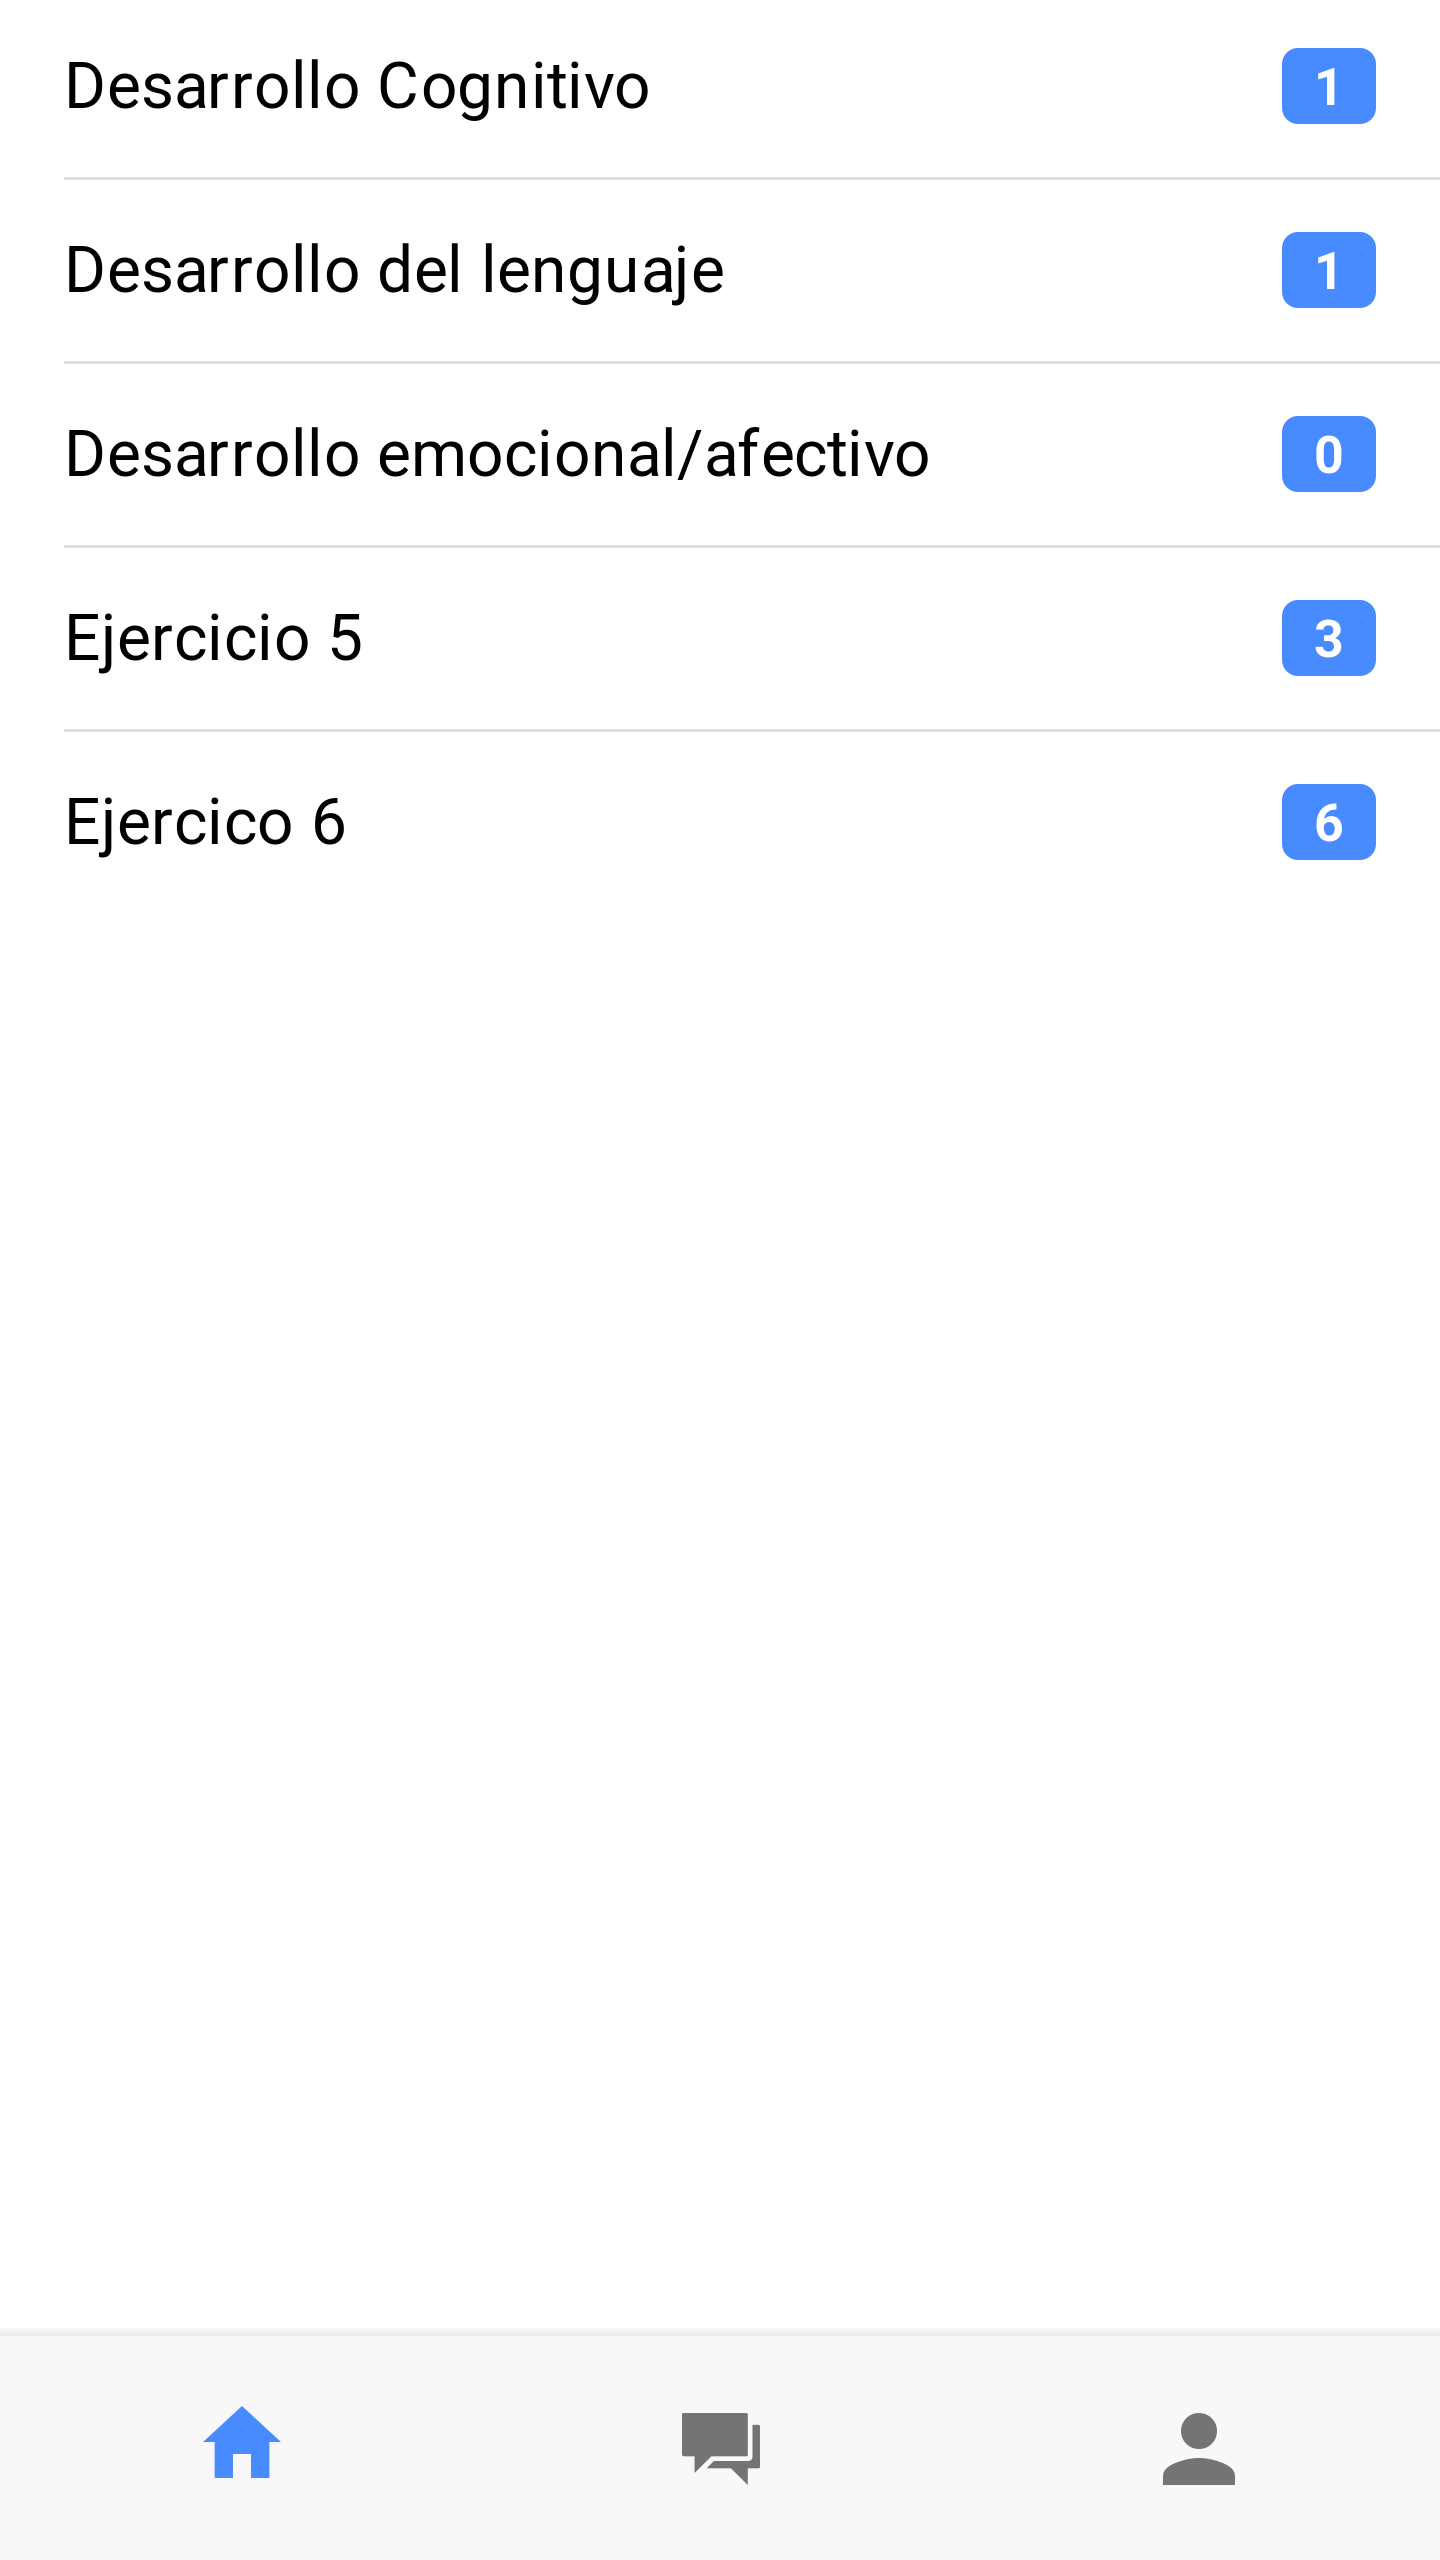
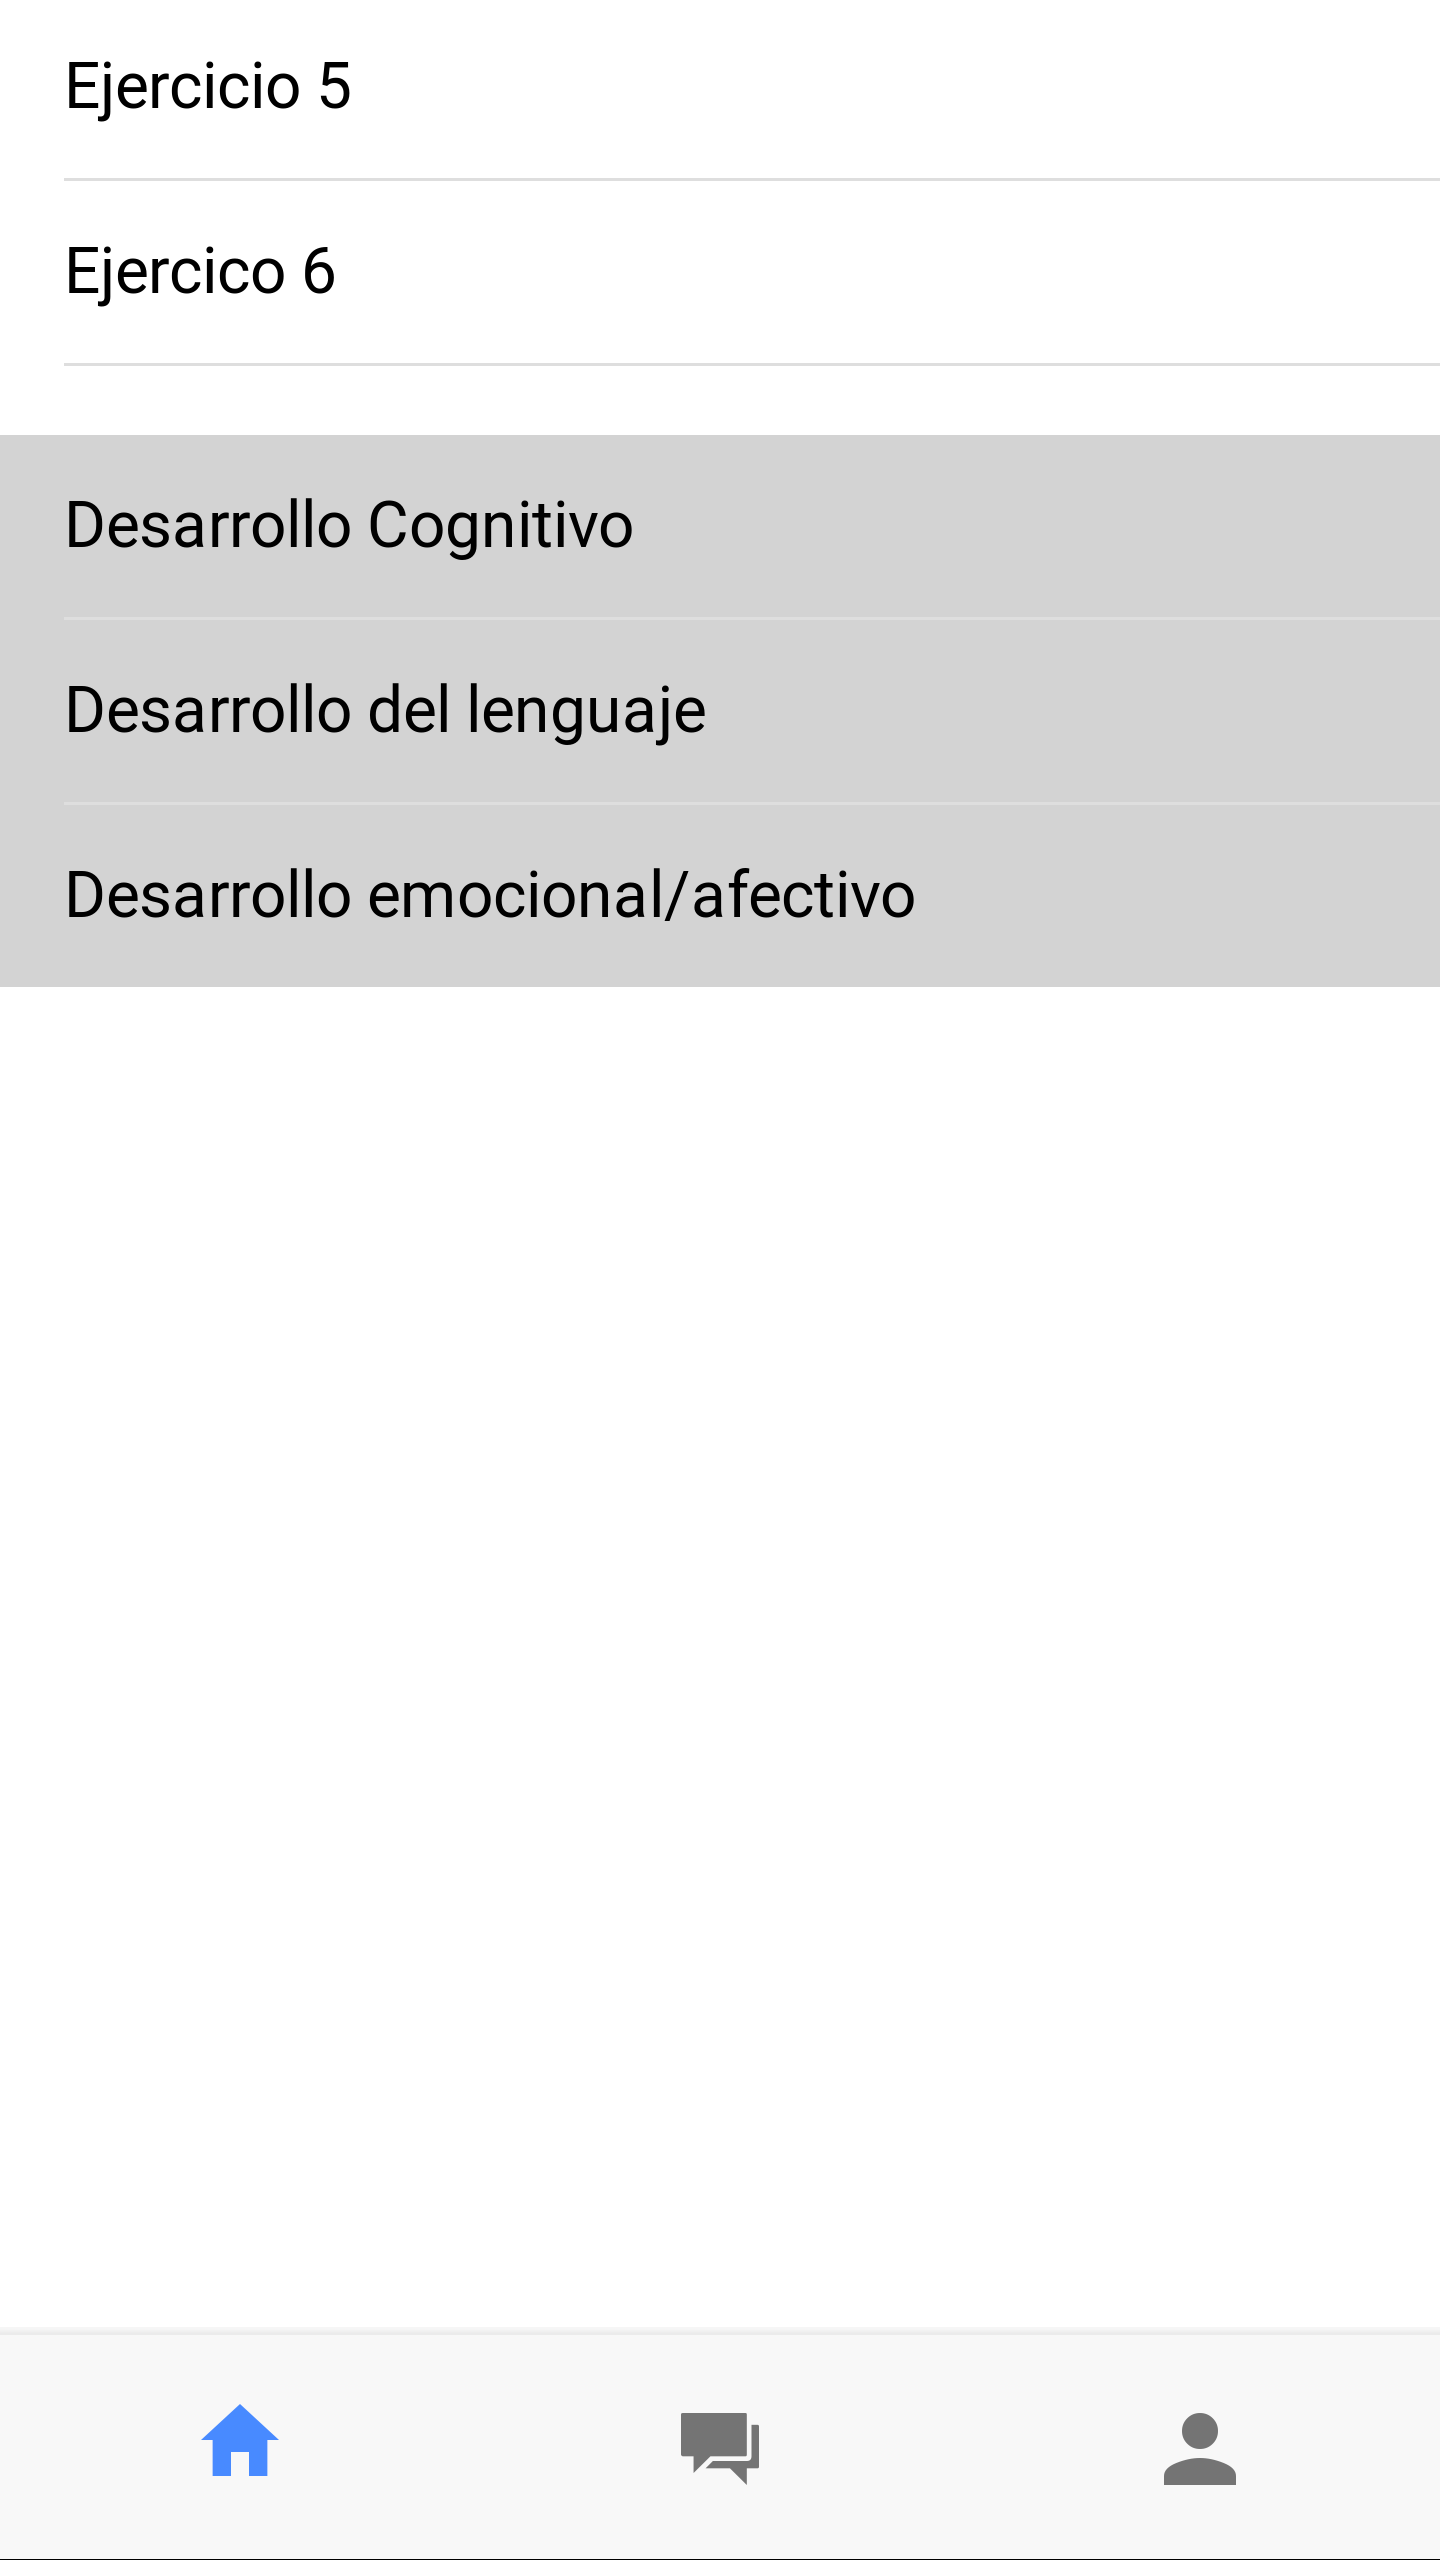
Update screenshots database and user manual

diff --git a/user_manual.tex b/user_manual.tex
@@ -50,6 +50,29 @@ representativos de las mismas. Como son: página principal (\textit{home}),
 chats y mi perfil, respectivamente. En el caso de los doctores, estos tienen
 una pestaña adicional con el icono de una lupa donde podrán buscar entre los
 pacientes registrados en la aplicación.
+
+Además en esta pantalla el usuario pacietne podrá ver los ejercicios que
+tiene asignados. Estos, estarán ordenados según estén completados o no. Los
+ejercicios que ya se han marcado como completados estarán al final de la lista
+en un color gris. Si el usuario pulsa sobre cualquiera de los ejercicios podrá
+ver el material disponible para dicho ejercicio.
+\clearpage
+
+\subsection{Vista ejercicios, paciente}
+\begin{figure}[!h]
+    \centering
+    \includegraphics[width=0.5\textwidth]{images/screenshots/Paciente-vista-ejercicio-con-observaciones.png}
+    \caption{Vista ejercicio con observaciones, paciente}
+    \label{ejercicio-con-observaciones}
+\end{figure}
+
+Los pacientes al entrar a ver uno de los ejercicios que tiene asignados verá
+la pantalla que se muestra en la figura \ref{ejercicio-con-observaciones}. En
+esta podrá ver las especificaciones del ejercicio tales como la descripción,
+las observaciones que el doctor puede haberle dejado indicadas y el material
+visual que se encuentre disponible. Como pueden ser imágenes o vídeos. Además de
+ello encontrará al final de esta un botón con el que podrá indicar si el
+ejercicio ha sido completado.
 \clearpage
 
 \subsection{Perfil de usuario}
@@ -66,20 +89,18 @@ además al final incluye un botón con el que pueden cerrar la sesión, si así
 lo quisieran.
 \clearpage
 
-\subsection{Vista ejercicios, paciente}
+\subsection{Pantalla principal, doctor}
 \begin{figure}[!h]
     \centering
-    \includegraphics[width=0.5\textwidth]{images/screenshots/Paciente-vista-ejercicio-con-observaciones.png}
-    \caption{Vista ejercicio con observaciones, paciente}
-    \label{ejercicio-con-observaciones}
+    \includegraphics[width=0.5\textwidth]{images/screenshots/doctor-home.png}
+    \caption{Pantalla principal, doctor}
+    \label{doctor-home}
 \end{figure}
 
-Los pacientes al entrar a ver uno de los ejercicios que tiene asignados verá
-la pantalla que se muestra en la figura \ref{ejercicio-con-observaciones}. En
-esta podrá ver las especificaciones del ejercicio tales como la descripción y
-las observaciones que el doctor puede haberle dejado indicadas. Además de
-ello encontrará al final de esta un botón con el que podrá indicar si el
-ejercicio ha sido completado.
+El doctor, cuando inicia la aplicación verá los pacientes que tiene asignados.
+Estos tendrán una marca a la derecha de su nombre si han completado ejercicios
+desde la última vez que el doctor ha revisado su historial. De esta forma podrá
+saber si hay novedades entre sus pacientes, como se puede ver en la figura \ref{doctor-home}.
 \clearpage
 
 \subsection{Vista ejercicios, doctor}
@@ -97,6 +118,48 @@ observaciones que quiera añadir. Para completar la asignación tendrá que
 pulsar en el botón situado al final de la pantalla.
 \clearpage
 
+\subsection{Vista perfil paciente}
+\begin{figure}[!h]
+    \centering
+    \includegraphics[width=0.5\textwidth]{images/screenshots/doctor-patient-profile.png}
+    \caption{Vista perfil paciente}
+    \label{doctor-patient-profile}
+\end{figure}
+
+Si el doctor entra en el perfil de un paciente podrá pulsar sobre el botón "+"
+situado en la parte inferior derecha en todo momento. Al pulsar sobre ella verá
+las opciones que se muestran en la figura \ref{doctor-patient-profile}. Entre las
+opciones se encuentran: iniciar un chat, asignar ejercicios y ver el historial.
+\clearpage
+
+\subsection{Ver historial del paciente}
+\begin{figure}[!h]
+    \centering
+    \includegraphics[width=0.5\textwidth]{images/screenshots/doctor-view-history.png}
+    \caption{Historial del paciente}
+    \label{doctor-view-history}
+\end{figure}
+
+En la figura \ref{vista-chats-abiertos} se puede ver el historial de ejercicios de un
+paciente con la fecha y hora en la que se ha completado cada ejercicio.
+\clearpage
+
+\subsection{Asignar ejercicios}
+\begin{figure}[!h]
+    \centering
+    \includegraphics[width=0.5\textwidth]{images/screenshots/doctor-assign-exercise.png}
+    \caption{Asignar ejercicios}
+    \label{doctor-assign-exercise}
+\end{figure}
+
+En la vista que se muestra en la figura \ref{vista-chats-abiertos} el doctor podrá
+ver de un vistazo los ejecicios que tiene el paciente asignados o no. Si quiere
+asignar un ejercicio sin observaciones podrá pulsar sobre el \textit{checkbox}, de
+igual forma para desasignarlo. Si en lugar de ello pulsa sobre el ejercicio verá todo
+el material disponible del ejercicio y un campo observaciones que podrá completar antes
+de asignar el ejercicio.
+\clearpage
+
 \subsection{Lista de chats}
 \begin{figure}[!h]
     \centering
@@ -106,8 +169,7 @@ pulsar en el botón situado al final de la pantalla.
 \end{figure}
 
 Todos los usuarios tendrán disponible una pantalla donde poder ver los chats
-que tiene activos en ese momento, tal como se muestra en la figura
-\ref{vista-chats-abiertos}.
+que tiene activos en ese momento, tal como se muestra en la figura \ref{vista-chats-abiertos}.
 \clearpage
 
 \subsection{Mensajes de chat}
@@ -123,3 +185,15 @@ En la pantalla para el visionado de los mensajes del chat
 mantiene con otro usuario. Además, se le permite enviar mensajes a este
 completando el recuadro del final de la pantalla y pulsando sobre el botón
 con forma de triángulo tumbado a la derecha.
+
+\subsection{Busqueda paciente}
+\begin{figure}[!h]
+    \centering
+    \includegraphics[width=0.5\textwidth]{images/screenshots/Doctor-buscar-pacientes.png}
+    \caption{Buscar paciente}
+    \label{doctor-search-patient}
+\end{figure}
+
+Como se muestra en la figura \ref{doctor-search-patient} el doctor podrá buscar
+pacientes. Para ello tendrá que escribir en la barra de búsqueda superior su nombre
+y la lista mostrará los disponibles.

diff --git a/database.tex b/database.tex
@@ -48,34 +48,22 @@ datos que nos han sido necesarios.
 
 \medskip
 \begin{figure}
-    \includegraphics[width=\linewidth]{./images/database/users-patient-with-observations-database.png}
-    \caption{Estructura en la base de datos del objeto: usuarios (con observaciones en los ejercicios)}
-    \label{usuario-con-observaciones}
+    \includegraphics[width=\linewidth]{./images/database/user-patient.png}
+    \caption{Estructura en la base de datos del objeto: usuarios (paciente)}
+    \label{user-patient}
 \end{figure}
 
-Como se puede ver en la \textbf{figura \ref{usuario-con-observaciones}},
+Como se puede ver en la \textbf{figura \ref{user-patient}},
 los usuarios comparten parámetros comunes de los cuales solamente los que
 se explicarán a continuación pueden generar duda de su utilidad o uso que se
 le ha podido dar. Es el caso de \textit{city}, hace referencia a la ciudad de
 nacimiento del usuario y por otro lado el trío \textit{day-month-year} los
 cuales forman la fecha de nacimiento del usuario en cuestión.
-En este caso el usuario tiene asignados cuatro ejercicios dentro del objeto
-\textit{exercise} a los cuales se les "referencia" guardando su ID y en caso
-de que este tenga observaciones con este paciente, se le añade un parámetro
-interno \textit{observations}.
-
-
-\medskip
-\begin{figure}
-    \includegraphics[width=\linewidth]{./images/database/users-patient-with-exercises-done-database.png}
-    \caption{Estructura en la base de datos del objeto: usuarios (con ejercicios completados)}
-    \label{usuario-con-ejercicios}
-\end{figure}
-
-En esta \textbf{figura \ref{usuario-con-ejercicios}} queda reflejado como
-se guardan las veces que se marca un ejercicio como hecho, guardando como clave
-del parámetro un objeto de tipo fecha y como valor el mismo pero en ristra de
-caracteres.
+En este caso el usuario tiene asignados cinco ejercicios dentro del objeto
+\textit{exercise} a los cuales se les "referencia" guardando como clave su ID.
+Dentro de este objeto cada ejercicio tiene un campo observaciones
+(\textit{observatios}) y un campo completado (\textit{done}) donde se guarda
+la fecha y hora en la que se completó un ejercicio.
 
 \medskip
 \begin{figure}
@@ -85,8 +73,10 @@ caracteres.
 \end{figure}
 
 En caso de ser un usuario de tipo doctor este tendrá un objeto en el que
-guarda los identificadores de sus pacientes asignados, como se puede ver
-en la \textbf{figura \ref{usuario-doctor}}.
+guarda los identificadores de sus pacientes asignados. Como se puede ver
+en la \textbf{figura \ref{usuario-doctor}} estos pacientes tienen asignados
+una fecha y hora, correspondiente a la última hora en la que se visitó su
+perfil.
 
 \medskip
 \begin{figure}
